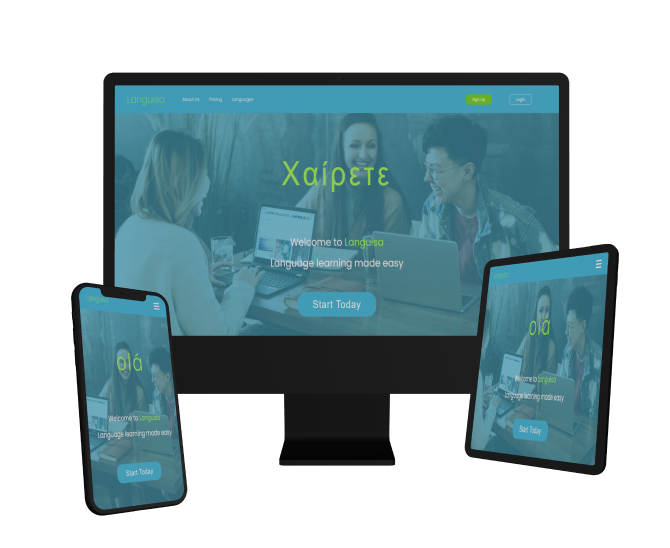
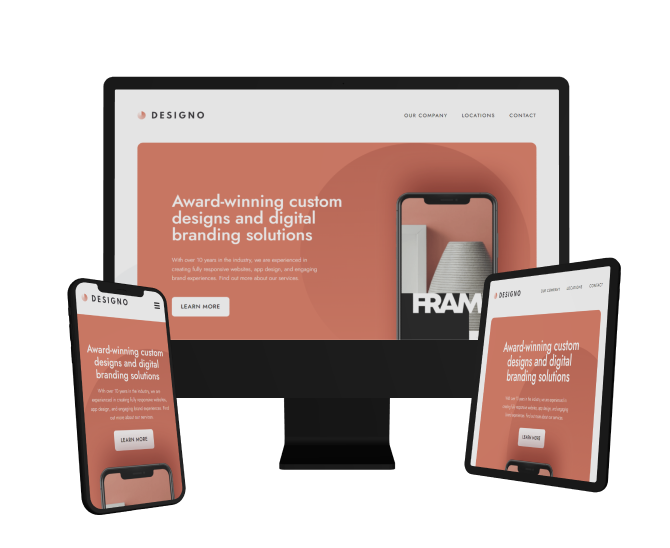
added-designo-projected-removed-languisa-project

diff --git a/src/projects-data/projectsData.js b/src/projects-data/projectsData.js
@@ -170,17 +170,27 @@ const projectsData = [
   },
   {
     id: 9,
-    name: "Languisa",
+    name: "Designo",
     descShort:
-      "Languisa is a fictional language learning site which offers users different ways of learning languages. It also has a greeting animation in different languages.",
+      "Designo is a fictional language multi-page site for a design compnay that offers custom designs and digital branding solutions.",
     descLong:
-      "Languisa is a fictional language learning site. Which offers users multiple ways of learning a new language. The site has a small greetings animation, which displays greetings in different languages. It also has a slideshow section showcasing various testimonials",
-    thumbNail: "languisa-thumb.png",
+      "Languisa is a fictional multi-page site for a design compnay. Which offers users different types of design services. The site has a few different features, such as a contact form with form validation, as well as interactive maps in the locations page showing where the companys head offices are in the world.",
+    thumbNail: "designo-thumb.png",
     deviceMockupsSml: "device-mockups-small.png",
     deviceMockupsLge: "device-mockups-large.png",
-    technologiesUsed: ["HTML", "CSS/SCSS", "Javascript", "Git", "Parcel"],
-    repoUrl: "https://github.com/David-Henery4/Languisa",
-    liveUrl: "https://languisa.netlify.app",
+    technologiesUsed: [
+      "HTML",
+      "CSS/SCSS",
+      "Javascript",
+      "Git",
+      "React",
+      "TailwindCSS",
+      "Vite",
+      "React-Router",
+      "Leaflet.js",
+    ],
+    repoUrl: "https://github.com/David-Henery4/Designo-Website",
+    liveUrl: "https://designo-customs.netlify.app",
   },
   {
     id: 10,
